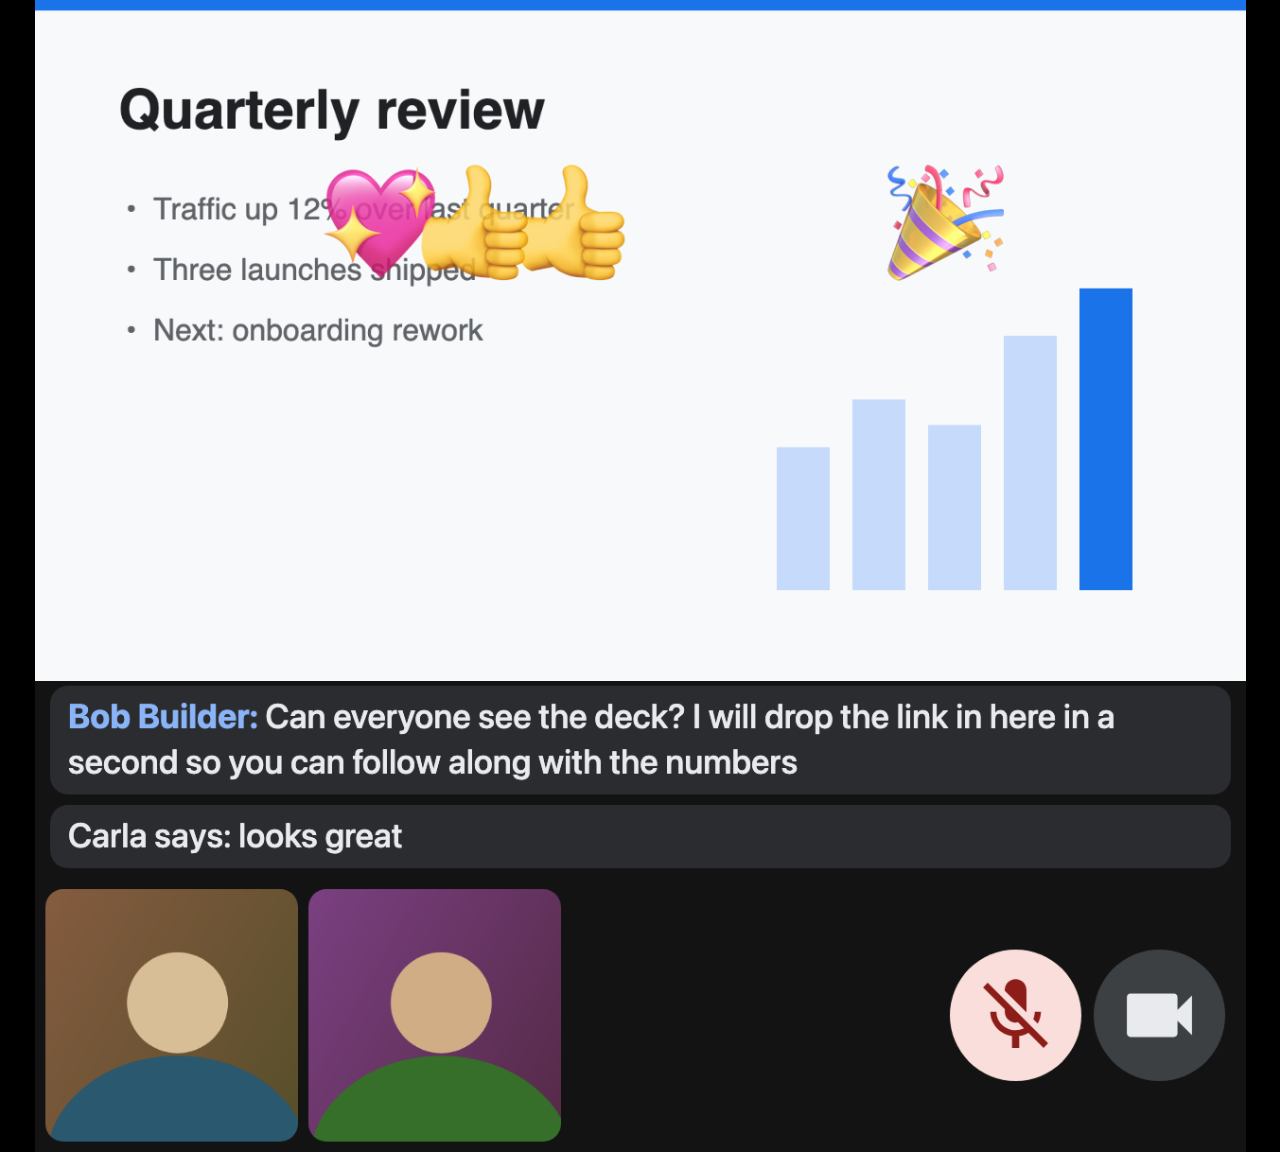
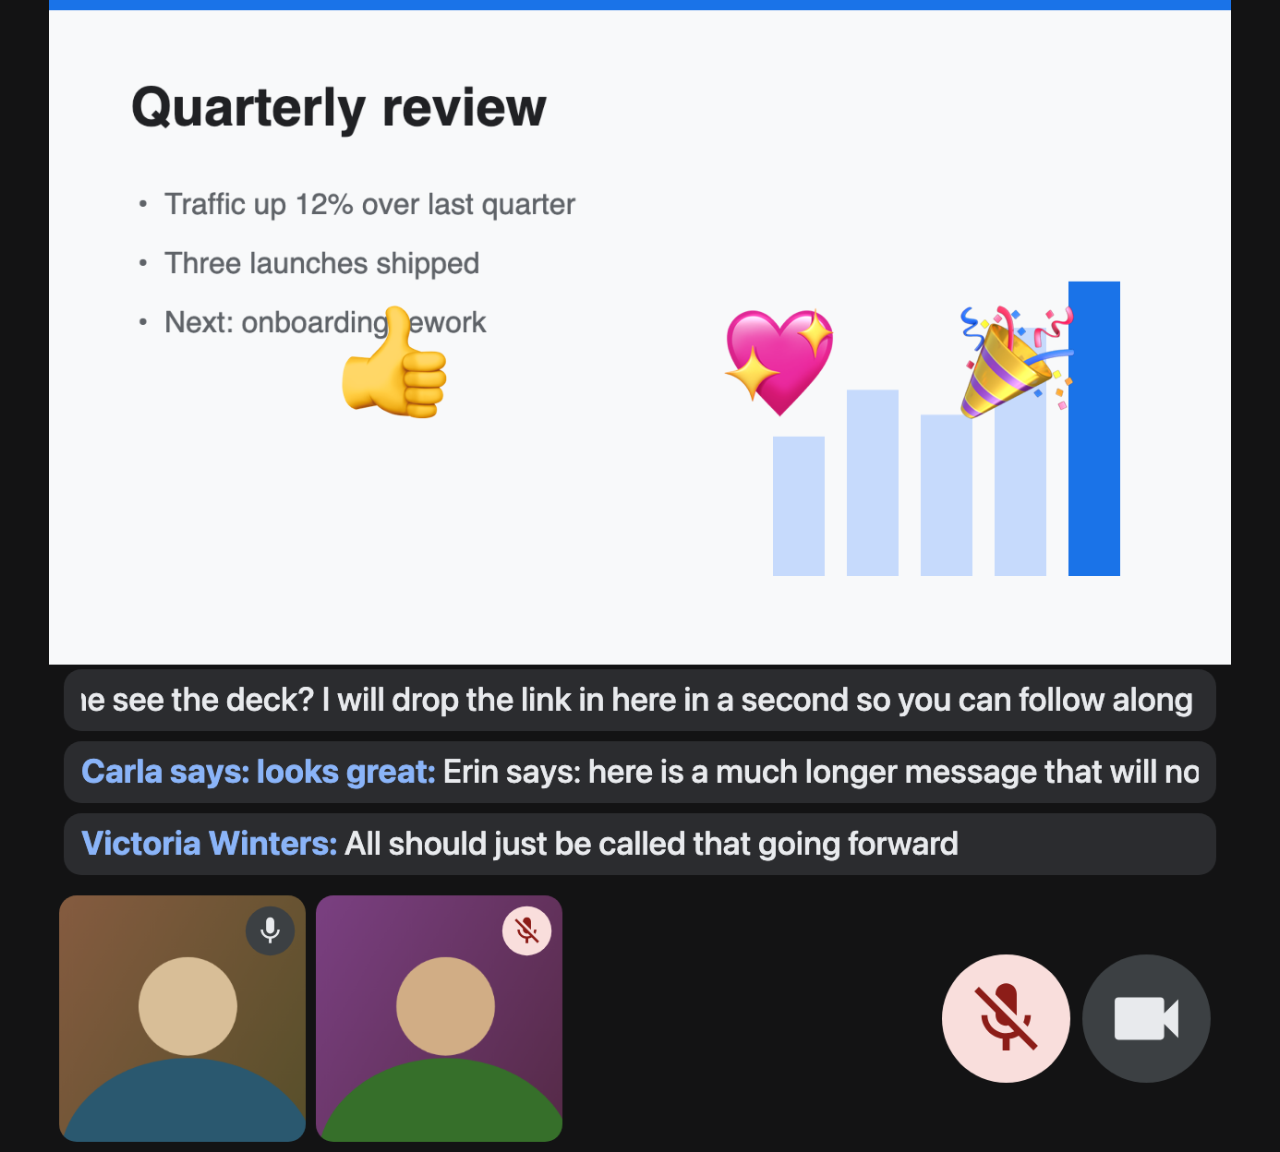
Hide PiP and tab-hidden state from Meet, scroll long chat rows, mic badge per tile

diff --git a/content.js b/content.js
@@ -21,7 +21,8 @@
     showSelf: false,        // include your own (mirrored) camera tile
     showChat: true,
     chatLines: 4,           // most recent messages kept on screen
-    chatTtlMs: 6000,        // how long a chat row stays up
+    chatTtlMs: 6000,        // how long a chat row stays up; longer if it has to scroll
+    showTileMic: true,      // mic badge on each participant tile
     showAnnouncements: true, // also show Meet's screen-reader announcements (chat toasts, raised hands)
     showReactions: true,
     pipMuteTogglesMic: true,     // PiP window mute button -> Meet microphone
@@ -92,6 +93,17 @@
     return info;
   }
 
+  // Meet marks a muted participant with a mic_off icon on the tile. The
+  // "mute for everyone" button has the same icon, so skip icons in buttons.
+  function tileMuted(video) {
+    const tile = video.closest('[data-participant-id]');
+    if (!tile) return false;
+    for (const icon of tile.querySelectorAll('i')) {
+      if (icon.textContent.trim() === 'mic_off' && !icon.closest('button, [role="button"]')) return true;
+    }
+    return false;
+  }
+
   // Tiles to draw, largest first. Needs layout, so sync() rebuilds it twice a
   // second instead of every frame.
   let sources = [];
@@ -108,7 +120,7 @@
       if (r.width < 2 || r.height < 2) continue;
       const info = tileInfo(v);
       if (info.self && !CONFIG.showSelf) continue;
-      out.push({ video: v, area: r.width * r.height, presentation: info.presentation });
+      out.push({ video: v, area: r.width * r.height, presentation: info.presentation, muted: !info.presentation && tileMuted(v) });
     }
     out.sort((a, b) => b.area - a.area);
     sources = out;
@@ -291,23 +303,6 @@
 
   const state = { micOff: false, camOff: false, inCall: false };
 
-  // Wrap `text` to at most `maxLines` lines of width `maxW`.
-  function wrap(text, maxW, maxLines) {
-    const words = text.split(' ');
-    const lines = [];
-    let line = '';
-    for (const word of words) {
-      const next = line ? line + ' ' + word : word;
-      if (ctx.measureText(next).width <= maxW || !line) { line = next; continue; }
-      lines.push(line);
-      line = word;
-      if (lines.length === maxLines) break;
-    }
-    if (lines.length < maxLines && line) lines.push(line);
-    else if (lines.length === maxLines) lines[maxLines - 1] = lines[maxLines - 1].replace(/.{2}$/, '…');
-    return lines;
-  }
-
   let CHAT_FONT, CHAT_LH, CHAT_PAD, STATUS_H;
   function applyUnit() {
     CHAT_FONT = u(27); CHAT_LH = u(36); CHAT_PAD = u(14); STATUS_H = u(96);
@@ -320,45 +315,54 @@
     if (key !== chatCacheKey) { chatCacheKey = key; chatCache = computeChatLayout(); }
     return chatCache;
   }
+  // One line per message. A row wider than the window scrolls sideways, and
+  // stays up long enough to be read to the end.
   function computeChatLayout() {
     if (!CONFIG.showChat) return { rows: [], height: 0 };
-    const cutoff = Date.now() - CONFIG.chatTtlMs;
-    const recent = chat.filter(m => m.t >= cutoff).slice(-CONFIG.chatLines);
-    if (!recent.length) return { rows: [], height: 0 };
-    ctx.font = `500 ${CHAT_FONT}px ${FONT}`;
-    const rows = recent.map(m => ({
-      sender: m.sender,
-      lines: wrap((m.sender ? m.sender + ': ' : '') + m.text, W - u(24) - CHAT_PAD * 2, 2),
-    }));
-    const height = rows.reduce((h, r) => h + r.lines.length * CHAT_LH + CHAT_PAD + u(8), 0) + u(4);
-    return { rows, height };
+    const now = Date.now();
+    const avail = W - u(24) - CHAT_PAD * 2;
+    const rows = [];
+    for (const m of chat) {
+      ctx.font = `700 ${CHAT_FONT}px ${FONT}`;
+      const senderW = m.sender ? ctx.measureText(m.sender + ': ').width : 0;
+      ctx.font = `500 ${CHAT_FONT}px ${FONT}`;
+      const overflow = Math.max(0, senderW + ctx.measureText(m.text).width - avail);
+      const scrollMs = overflow / u(150) * 1000;
+      const ttl = Math.min(25000, CONFIG.chatTtlMs + scrollMs);
+      if (now - m.t < ttl) rows.push({ m, senderW, overflow, scrollMs: ttl - CONFIG.chatTtlMs });
+    }
+    rows.splice(0, Math.max(0, rows.length - CONFIG.chatLines));
+    return { rows, height: rows.length ? rows.length * (CHAT_LH + CHAT_PAD + u(8)) + u(4) : 0 };
   }
 
   function drawChat(layout, top) {
     let y = top + u(4);
+    const h = CHAT_LH + CHAT_PAD, now = Date.now();
     ctx.textBaseline = 'middle';
     ctx.textAlign = 'left';
     for (const row of layout.rows) {
-      const h = row.lines.length * CHAT_LH + CHAT_PAD;
       ctx.fillStyle = '#2b2c2f';
       ctx.beginPath();
       ctx.roundRect(u(12), y, W - u(24), h, u(14));
       ctx.fill();
-      row.lines.forEach((line, i) => {
-        const ly = y + CHAT_PAD / 2 + CHAT_LH * (i + 0.5);
-        let x = u(12) + CHAT_PAD, rest = line;
-        if (i === 0 && row.sender && line.startsWith(row.sender + ':')) {
-          // Sender in bold, then the message.
-          ctx.font = `700 ${CHAT_FONT}px ${FONT}`;
-          ctx.fillStyle = '#8ab4f8';
-          ctx.fillText(row.sender + ':', x, ly);
-          x += ctx.measureText(row.sender + ': ').width;
-          rest = line.slice(row.sender.length + 1).trimStart();
-        }
-        ctx.font = `500 ${CHAT_FONT}px ${FONT}`;
-        ctx.fillStyle = '#e8eaed';
-        ctx.fillText(rest, x, ly);
-      });
+      // Hold for 2s, scroll to the end, hold again.
+      const progress = row.scrollMs ? Math.max(0, Math.min(1, (now - row.m.t - 2000) / row.scrollMs)) : 0;
+      let x = u(12) + CHAT_PAD - row.overflow * progress;
+      const ly = y + h / 2;
+      ctx.save();
+      ctx.beginPath();
+      ctx.rect(u(12) + CHAT_PAD, y, W - u(24) - CHAT_PAD * 2, h);
+      ctx.clip();
+      if (row.m.sender) {
+        ctx.font = `700 ${CHAT_FONT}px ${FONT}`;
+        ctx.fillStyle = '#8ab4f8';
+        ctx.fillText(row.m.sender + ':', x, ly);
+        x += row.senderW;
+      }
+      ctx.font = `500 ${CHAT_FONT}px ${FONT}`;
+      ctx.fillStyle = '#e8eaed';
+      ctx.fillText(row.m.text, x, ly);
+      ctx.restore();
       y += h + u(8);
     }
   }
@@ -402,6 +406,14 @@
     ctx.fill(path);
     ctx.restore();
   }
+  // Mic badge in a tile's top-right corner.
+  function drawTile(entry, x, y, w, h) {
+    drawCover(entry.video, x, y, w, h);
+    if (!CONFIG.showTileMic) return;
+    const d = Math.max(u(34), Math.min(u(52), w * 0.2)), m = d * 0.22;
+    statusBlock(x + w - d - m, y + m, d, d, !entry.muted, entry.muted ? 'micOff' : 'micOn');
+  }
+
   // Two blocks of (bw, bh), right edge at `right`, vertically centred on `cy`.
   function drawStatus(right, cy, bw, bh) {
     const gap = u(10);
@@ -434,7 +446,7 @@
       const inRow = r === rows - 1 ? n - r * cols : cols;
       const rowW = inRow * cw + (inRow - 1) * gap;
       const x = (W - rowW) / 2 + c * (cw + gap), y = y0 + r * (ch + gap);
-      if (i < entries.length) { drawCover(entries[i].video, x, y, cw, ch); continue; }
+      if (i < entries.length) { drawTile(entries[i], x, y, cw, ch); continue; }
       ctx.fillStyle = '#2b2c2f';
       ctx.beginPath();
       ctx.roundRect(x, y, cw, ch, u(18));
@@ -474,7 +486,7 @@
     // Square tiles, left-aligned, narrower if they would reach the indicators.
     const avail = W - gap * 5 - sb * 2 - u(10);
     const tw = Math.min(rowH, Math.floor(avail / Math.max(1, rest.length)) - gap);
-    rest.forEach((entry, i) => drawCover(entry.video, gap + i * (tw + gap), rowY, tw, rowH));
+    rest.forEach((entry, i) => drawTile(entry, gap + i * (tw + gap), rowY, tw, rowH));
   }
 
   function compose() {
@@ -637,6 +649,8 @@
   // about PiP opened by its own toggle or shortcut.
   let pipActive = false;
   function setPipActive(on) { pipActive = on; dock.classList.toggle('meet-pip-on', on); }
+  // early.js swallows these events in Firefox and reports them here instead.
+  if (window.__meetPipEarly) window.__meetPipEarly.onPip = setPipActive;
   mirror.addEventListener('enterpictureinpicture', () => setPipActive(true));
   mirror.addEventListener('leavepictureinpicture', () => setPipActive(false));
   function targetFps() {

diff --git a/test/mock-meet.html b/test/mock-meet.html
@@ -19,8 +19,8 @@
 </style></head>
 <body>
 <div id="stage">
-  <div class="tile" data-participant-id="p1" style="grid-row: span 3"><video autoplay muted playsinline></video><button aria-label="Pin Alice to your screen"></button></div>
-  <div class="tile" data-participant-id="p2"><video autoplay muted playsinline></video></div>
+  <div class="tile" data-participant-id="p1" style="grid-row: span 3"><video autoplay muted playsinline></video><button aria-label="Pin Alice to your screen"></button><button aria-label="Mute Alice for everyone"><i hidden>mic_off</i></button></div>
+  <div class="tile" data-participant-id="p2"><video autoplay muted playsinline></video><i hidden>mic_off</i></div>
   <div class="tile" data-participant-id="p3"><video autoplay muted playsinline></video></div>
   <div class="tile self" data-participant-id="p4"><video autoplay muted playsinline></video></div>
 </div>
@@ -71,7 +71,7 @@
   }));
   window.sim = () => {
     const l = document.getElementById('live');
-    for (const text of ['Carla says: looks great', 'The presentation by Alice was added to the main screen.', 'Loading...', '35 results.', 'Dana Lee joined', 'Dana Lee has left the meeting', 'Dana Lee has started transcription', 'Transcription has started', 'Weekly sync panel is open', 'You reacted with 👍.']) {
+    for (const text of ['Carla says: looks great', 'The presentation by Alice was added to the main screen.', 'Loading...', '35 results.', 'Erin says: here is a much longer message that will not fit on a single line and so has to scroll sideways to be read', 'Dana Lee joined', 'Dana Lee has left the meeting', 'Dana Lee has started transcription', 'Transcription has started', 'Weekly sync panel is open', 'You reacted with 👍.']) {
       const d = document.createElement('div'); d.textContent = text; l.append(d);
     }
     // As Meet does: a wrapper, then its emoji child, plus the announcement above.

diff --git a/early.js b/early.js
@@ -1,0 +1,31 @@
+// Runs before Meet's own scripts. Meet rearranges its page when it thinks the
+// call is in Picture-in-Picture or the tab is hidden, so keep both from it:
+// the PiP window should show the layout you left.
+(() => {
+  'use strict';
+  if (window.__meetPipEarly) return;
+  const early = window.__meetPipEarly = { onPip: null };
+
+  // Capture listeners on window, registered first, run before any of Meet's.
+  for (const type of ['enterpictureinpicture', 'leavepictureinpicture']) {
+    window.addEventListener(type, e => {
+      if (e.target?.id !== 'meet-pip-mirror') return;
+      e.stopImmediatePropagation();
+      early.onPip?.(type === 'enterpictureinpicture');
+    }, true);
+  }
+  window.addEventListener('visibilitychange', e => e.stopImmediatePropagation(), true);
+
+  // Firefox only: what the page's own scripts read.
+  const page = document.wrappedJSObject;
+  if (page && typeof exportFunction === 'function') {
+    const fixed = (name, value) => {
+      try {
+        Object.defineProperty(page, name, { get: exportFunction(() => value, window), configurable: true });
+      } catch (e) { /* ignore */ }
+    };
+    fixed('pictureInPictureElement', null);
+    fixed('visibilityState', 'visible');
+    fixed('hidden', false);
+  }
+})();

diff --git a/README.md b/README.md
@@ -22,7 +22,11 @@ Firefox's built-in PiP show that video.
 - Not presenting: a grid of equal, centre-cropped 4:5 tiles, 720 px wide. The
   window's shape follows the number of tiles. Past 6
   participants the last tile reads "+N more".
-- Recent chat messages and reactions are drawn in both layouts.
+- New chat messages show for 6 seconds, one line each; a long one scrolls.
+  Reactions float up over the video.
+- Each participant tile has a mic badge showing whether they are muted.
+- Meet is not told that PiP is open or that its tab is hidden, so it keeps the
+  layout you left.
 - The PiP window's mute button toggles Meet's microphone.
 - The PiP window's pause button turns Meet's camera off.
 
